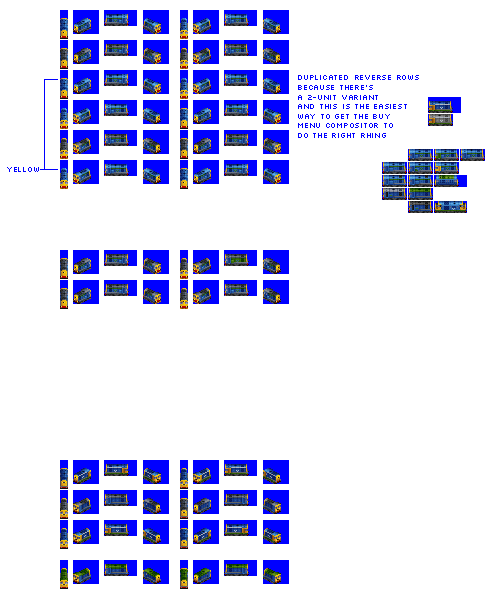
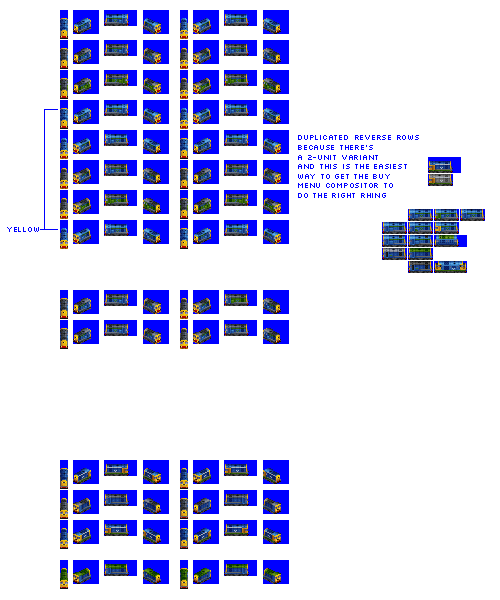
Change: additional livery for Lynx

diff --git a/src/vehicles/pony/lynx.py b/src/vehicles/pony/lynx.py
@@ -17,7 +17,7 @@ def main(roster_id, **kwargs):
         gen=5,  # not replaced by anything (?)
         intro_year_offset=7,  # introduce later than gen epoch by design
         # note that livery names are metadata only and can repeat for different spriterows
-        additional_liveries=["SWOOSH", "INDUSTRIAL_YELLOW"],
+        additional_liveries=["SWOOSH", "SWOOSH", "INDUSTRIAL_YELLOW"],
         sprites_complete=True,
     )
 

diff --git a/bin/swap_company_colours.py b/bin/swap_company_colours.py
@@ -8,7 +8,7 @@ from polar_fox import graphics_units
 
 # requires a tmp dir to exist, which should be gitignored
 # set the filename
-input_filenames = ["tornado"]
+input_filenames = ["lynx"]
 
 for input_filename in input_filenames:
     source_image = Image.open(os.path.join("tmp", input_filename + ".png"))
